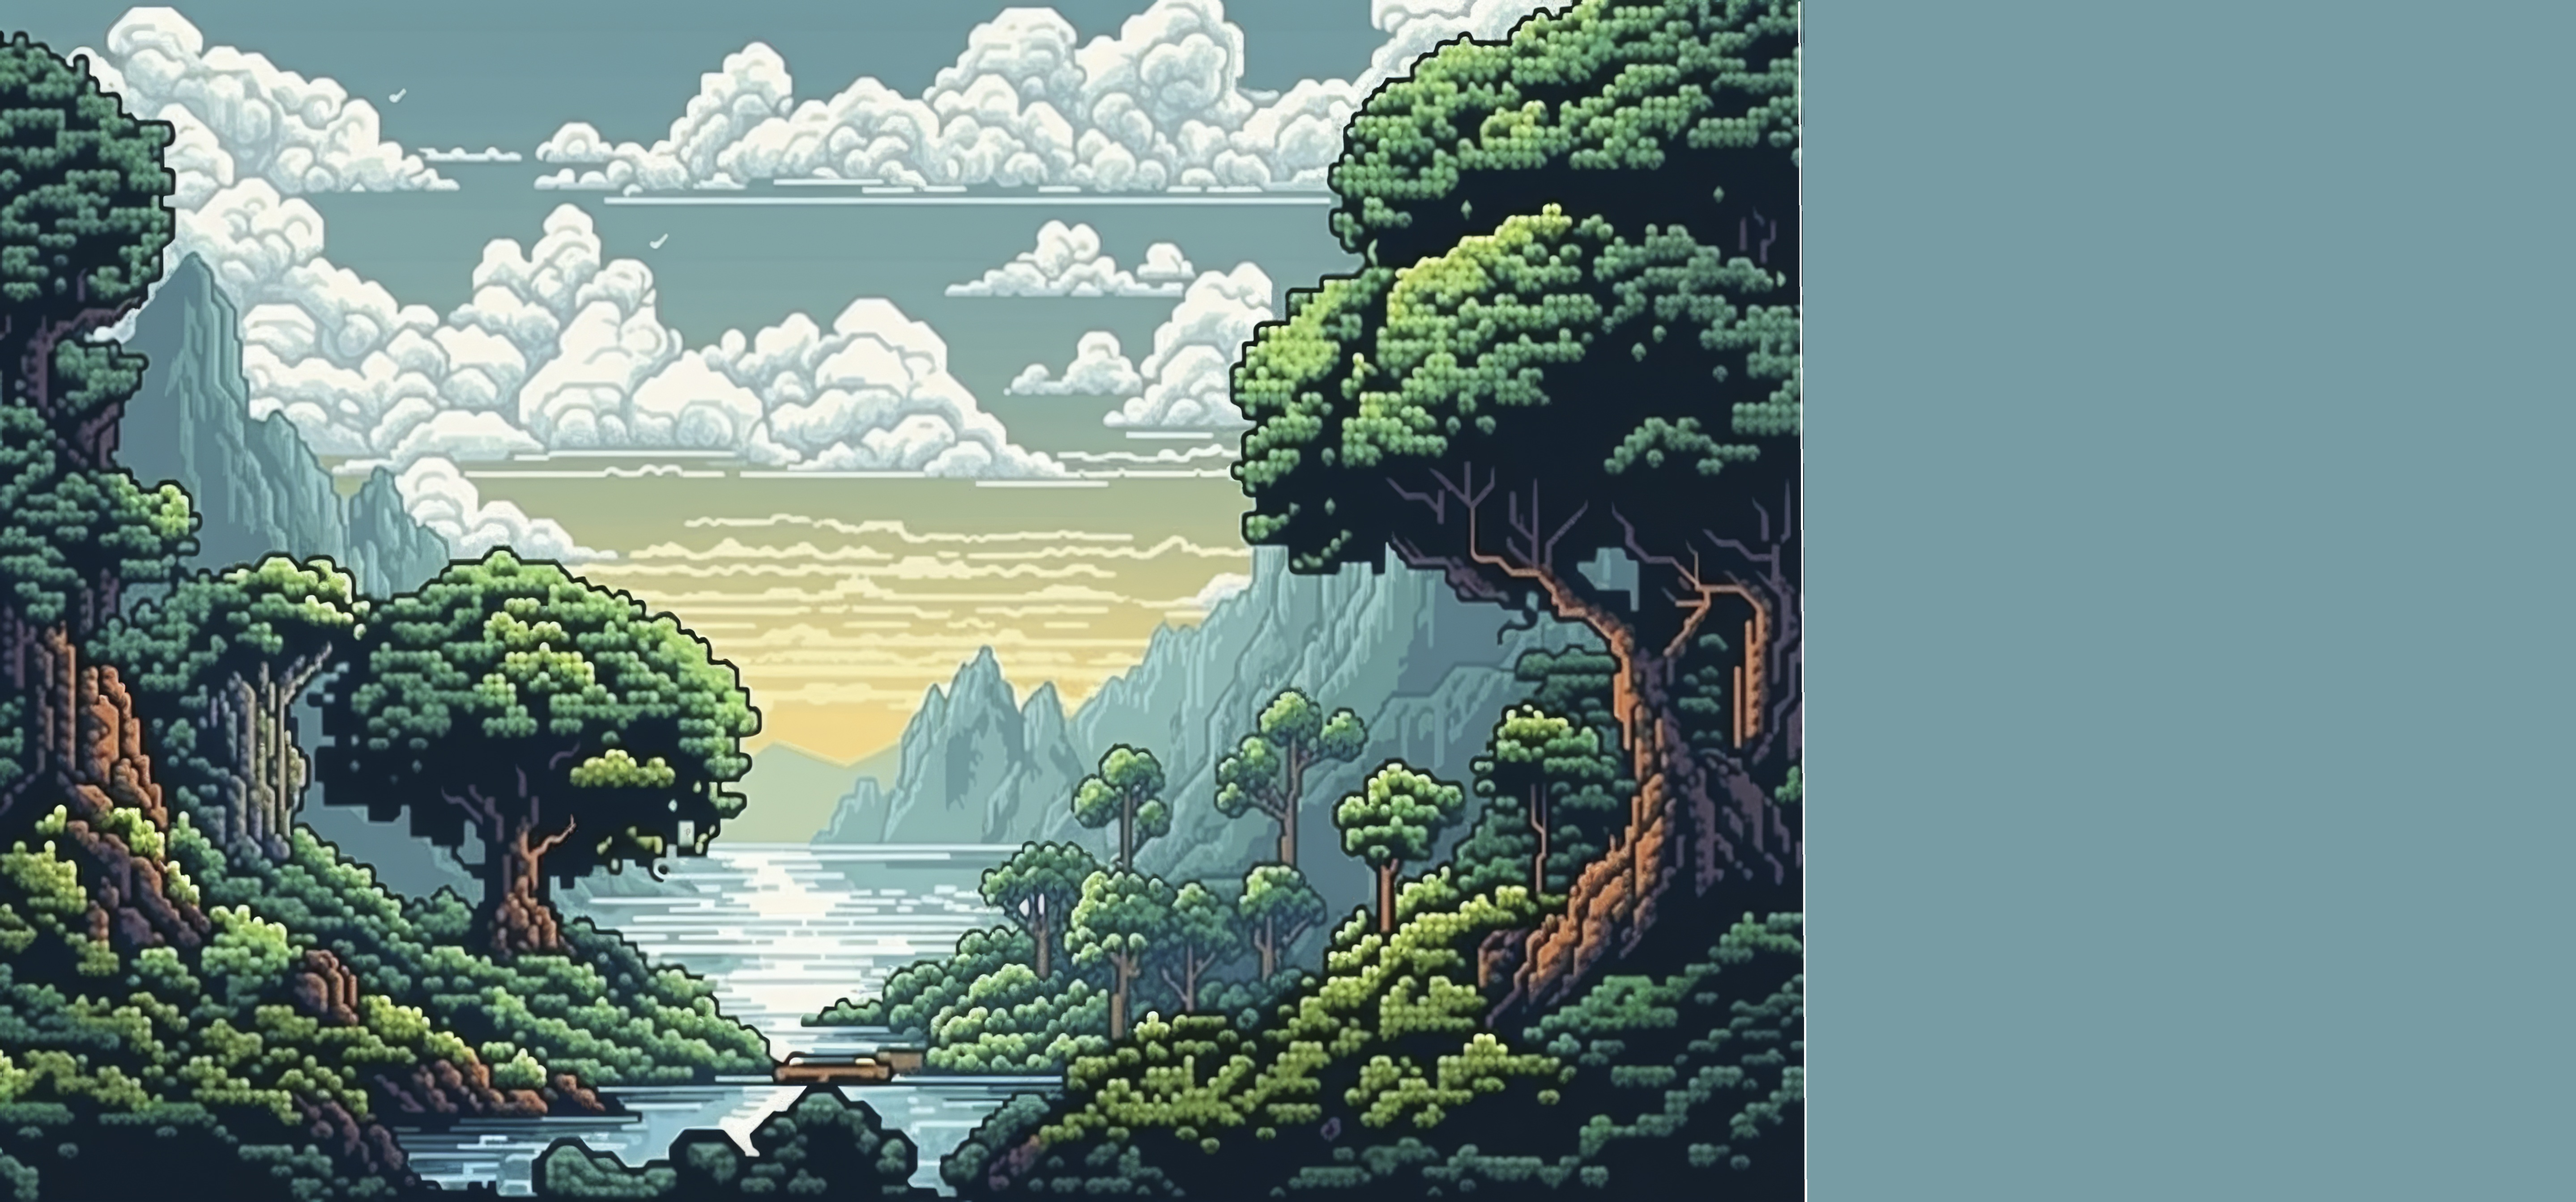
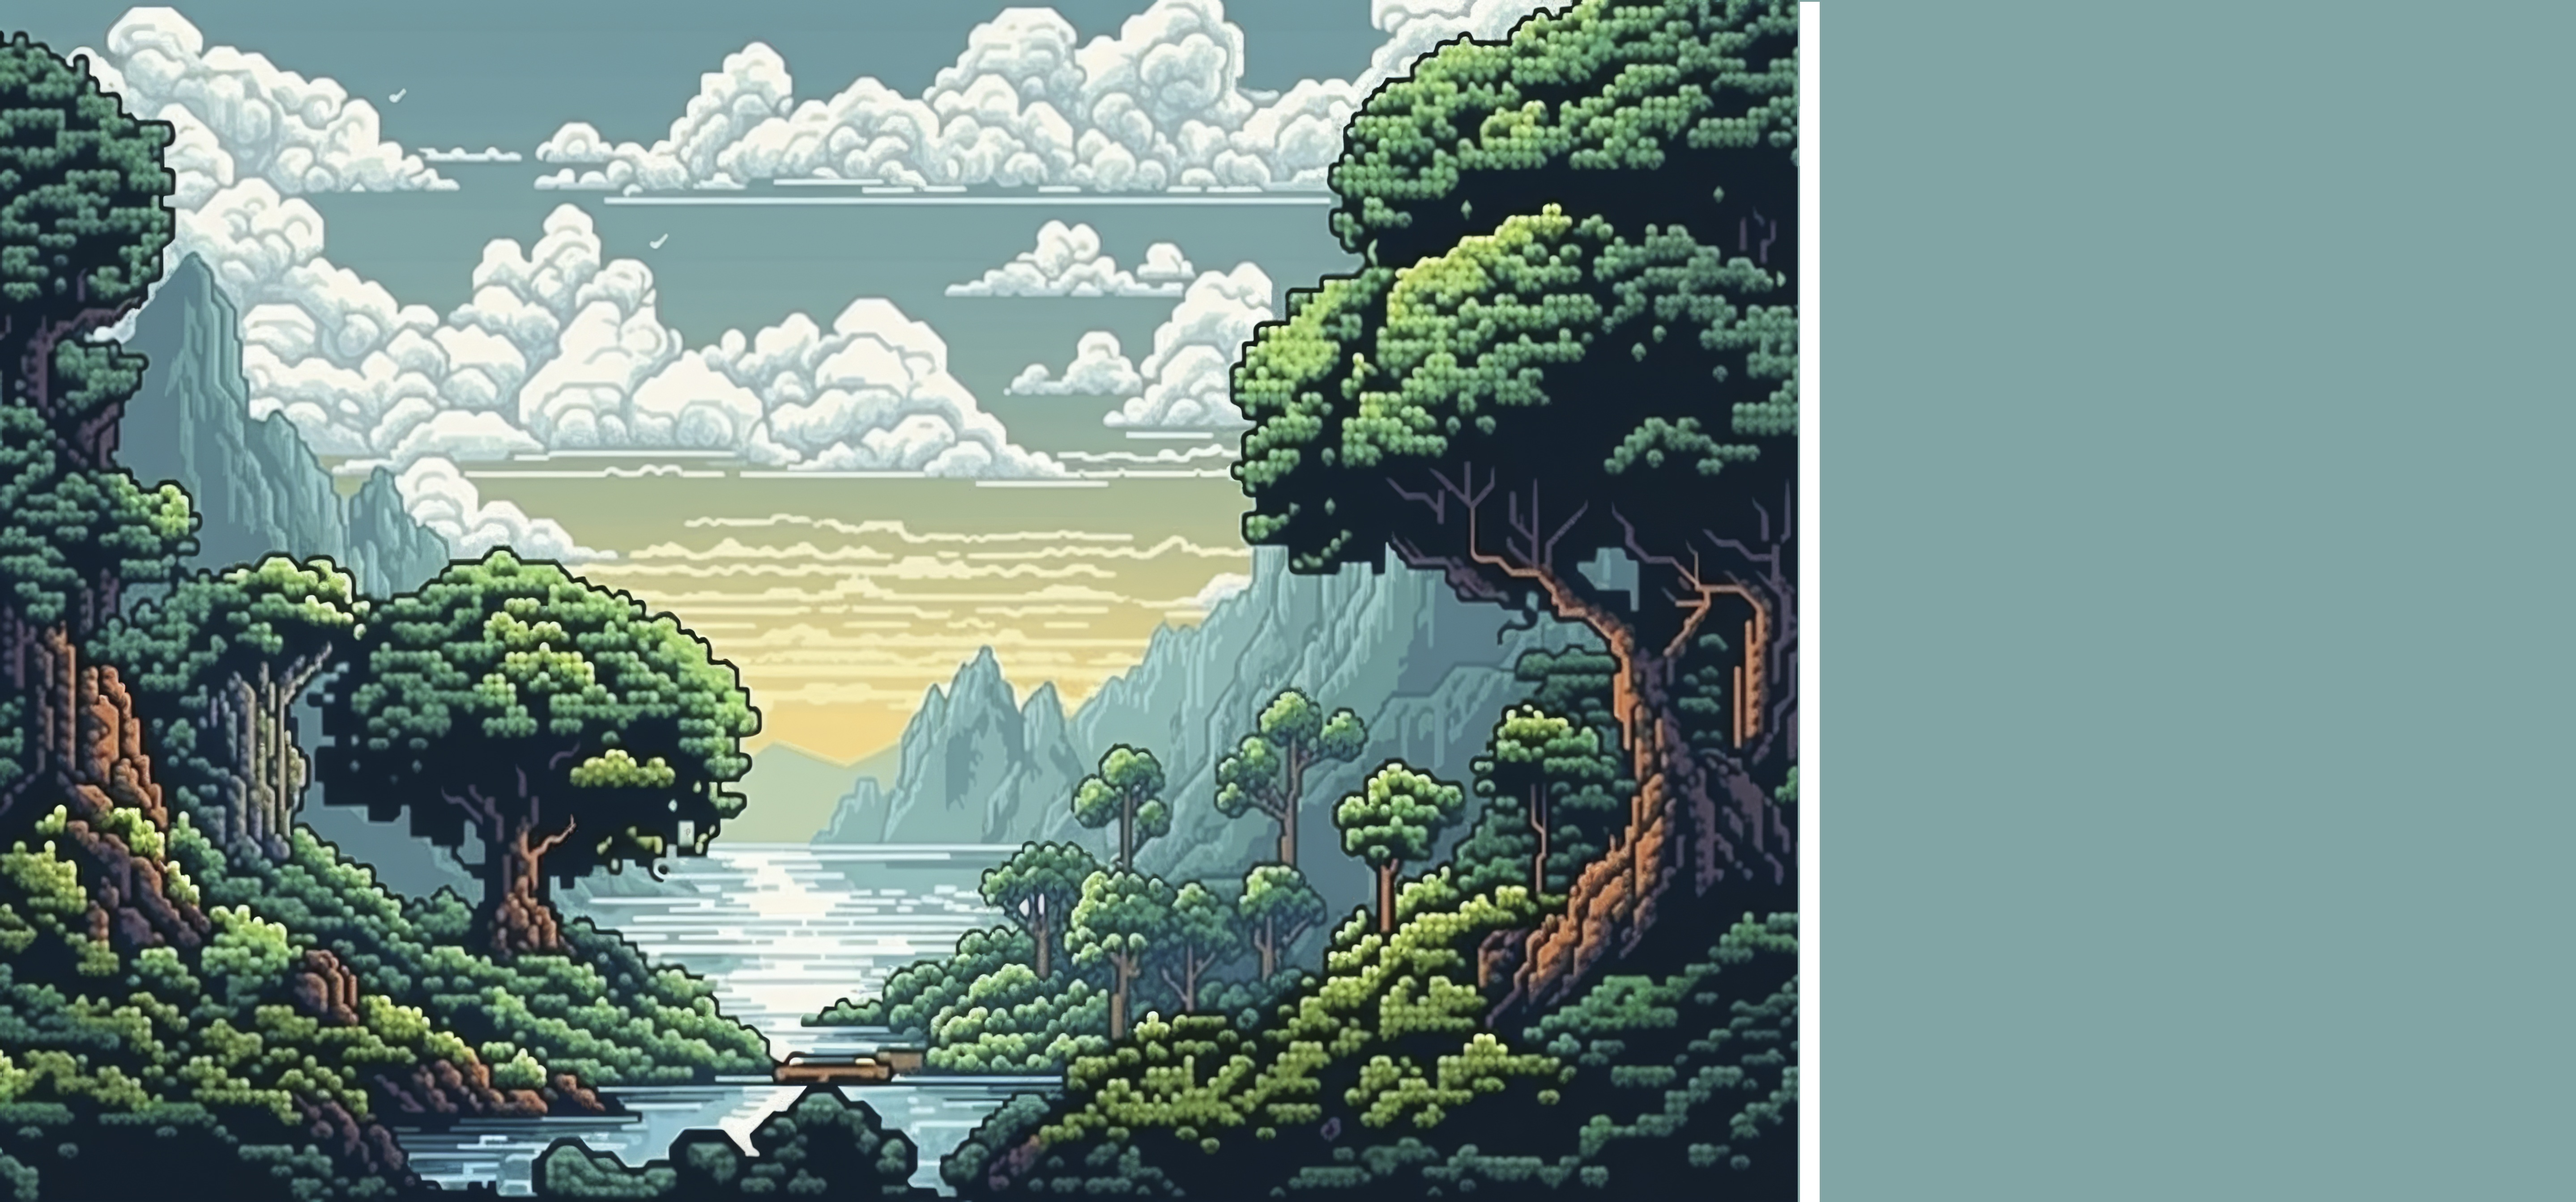
changed design and added clock

Changed region(s): [[0.6842, 0.0, 0.7153, 1.0]]

diff --git a/web-ui/src/App.vue b/web-ui/src/App.vue
@@ -1,5 +1,5 @@
 <script setup lang="ts">
-import { onMounted, ref } from "vue";
+import { computed, onBeforeUnmount, onMounted, ref, watch } from "vue";
 import type { BoardMatrix, GameState, MoveRequest, PieceCode } from "./api/types";
 import {
   apiBaseUrl,
@@ -27,6 +27,11 @@ const pgnExport = ref<string>("");
 const previousBoard = ref<BoardMatrix | null>(null);
 const animationPlan = ref<BoardAnimation | null>(null);
 const animationCounter = ref(0);
+const baseClockMs = 10 * 60 * 1000;
+const whiteClockMs = ref(baseClockMs);
+const blackClockMs = ref(baseClockMs);
+const lastTickMs = ref<number | null>(null);
+const clockInterval = ref<number | null>(null);
 
 type BoardAnimation = {
   id: number;
@@ -54,6 +59,30 @@ const loadGame = async () => {
       error instanceof Error
         ? `Service offline. ${error.message}`
         : "Service offline.";
+  }
+};
+
+const resetClocks = () => {
+  whiteClockMs.value = baseClockMs;
+  blackClockMs.value = baseClockMs;
+  lastTickMs.value = performance.now();
+};
+
+const clockRunning = computed(() => {
+  const status = game.value?.status;
+  return status === "active" || status === "check";
+});
+
+const tickClock = () => {
+  const now = performance.now();
+  const last = lastTickMs.value ?? now;
+  lastTickMs.value = now;
+  if (!clockRunning.value || !game.value) return;
+  const delta = Math.max(0, now - last);
+  if (game.value.activeColor === "white") {
+    whiteClockMs.value = Math.max(0, whiteClockMs.value - delta);
+  } else {
+    blackClockMs.value = Math.max(0, blackClockMs.value - delta);
   }
 };
 
@@ -163,7 +192,26 @@ const handleExport = async () => {
   }
 };
 
-onMounted(loadGame);
+onMounted(() => {
+  loadGame();
+  lastTickMs.value = performance.now();
+  clockInterval.value = window.setInterval(tickClock, 250);
+});
+
+onBeforeUnmount(() => {
+  if (clockInterval.value !== null) {
+    window.clearInterval(clockInterval.value);
+  }
+});
+
+watch(
+  () => game.value?.id,
+  (next, prev) => {
+    if (next && next !== prev) {
+      resetClocks();
+    }
+  }
+);
 
 const handleAnimationFinished = (id: number) => {
   if (animationPlan.value?.id === id) {
@@ -216,7 +264,7 @@ const squareToIndex = (square: string): { row: number; col: number } | null => {
       <span class="leaf leaf-5"></span>
       <span class="leaf leaf-6"></span>
     </div>
-    <StatusBanner :game="game" :connection="connection" :message="message" />
+    <!-- <StatusBanner :game="game" :connection="connection" :message="message" /> -->
     <main class="layout">
       <ChessBoard
         v-if="game"
@@ -234,6 +282,10 @@ const squareToIndex = (square: string): { row: number; col: number } | null => {
         <ControlPanel
           :game="game"
           :busy="busy"
+          :white-time-ms="whiteClockMs"
+          :black-time-ms="blackClockMs"
+          :active-color="game?.activeColor"
+          :clock-running="clockRunning"
           @new-game="handleNewGame"
           @undo="handleUndo"
           @redo="handleRedo"
@@ -290,6 +342,7 @@ const squareToIndex = (square: string): { row: number; col: number } | null => {
   width: 100%;
   max-width: 280px;
   justify-self: end;
+  margin-left: 32px;
 }
 
 .placeholder {

diff --git a/web-ui/src/components/ControlPanel.vue b/web-ui/src/components/ControlPanel.vue
@@ -1,9 +1,13 @@
 <script setup lang="ts">
-import type { GameState } from "../api/types";
+import type { GameState, PlayerColor } from "../api/types";
 
-defineProps<{
+const props = defineProps<{
   game?: GameState;
   busy: boolean;
+  whiteTimeMs?: number;
+  blackTimeMs?: number;
+  activeColor?: PlayerColor;
+  clockRunning?: boolean;
 }>();
 
 const emit = defineEmits<{
@@ -12,6 +16,13 @@ const emit = defineEmits<{
   (event: "redo"): void;
   (event: "export"): void;
 }>();
+
+const formatTime = (ms?: number) => {
+  const totalSeconds = Math.max(0, Math.floor((ms ?? 0) / 1000));
+  const minutes = Math.floor(totalSeconds / 60);
+  const seconds = totalSeconds % 60;
+  return `${minutes}:${seconds.toString().padStart(2, "0")}`;
+};
 </script>
 
 <template>
@@ -20,6 +31,22 @@ const emit = defineEmits<{
       <h2>Command Deck</h2>
       <p>Direct the battle from here.</p>
     </header>
+    <div class="clocks">
+      <div
+        class="clock"
+        :class="[props.activeColor === 'white' && props.clockRunning ? 'is-active' : '']"
+      >
+        <span class="label">White</span>
+        <strong class="clock-time">{{ formatTime(props.whiteTimeMs) }}</strong>
+      </div>
+      <div
+        class="clock"
+        :class="[props.activeColor === 'black' && props.clockRunning ? 'is-active' : '']"
+      >
+        <span class="label">Black</span>
+        <strong class="clock-time">{{ formatTime(props.blackTimeMs) }}</strong>
+      </div>
+    </div>
     <div class="status">
       <div>
         <span class="label">Status</span>
@@ -77,6 +104,31 @@ header p {
   grid-template-columns: repeat(3, minmax(0, 1fr));
   gap: 12px;
   margin-bottom: 16px;
+}
+
+.clocks {
+  display: grid;
+  grid-template-columns: repeat(2, minmax(0, 1fr));
+  gap: 12px;
+  margin-bottom: 16px;
+}
+
+.clock {
+  display: grid;
+  gap: 6px;
+  align-items: center;
+  padding: 10px 12px;
+  border-radius: 16px;
+  background: rgba(255, 255, 255, 0.04);
+}
+
+.clock.is-active {
+  box-shadow: 0 0 0 1px rgba(255, 206, 116, 0.55), 0 12px 22px rgba(0, 0, 0, 0.35);
+}
+
+.clock-time {
+  font-size: 1.2rem;
+  letter-spacing: 0.08rem;
 }
 
 .label {

diff --git a/web-ui/src/components/ChessBoard.vue b/web-ui/src/components/ChessBoard.vue
@@ -689,13 +689,13 @@ watch(
   position: relative;
   display: grid;
   grid-template-rows: repeat(8, var(--square-size, 72px));
-  gap: 0;
+  gap: 1px;
 }
 
 .board-row {
   display: grid;
   grid-template-columns: repeat(8, var(--square-size, 72px));
-  gap: 0;
+  gap: 1px;
 }
 
 .board-square {
@@ -712,11 +712,11 @@ watch(
 }
 
 .square-light {
-  background: #f0d9b5;
+  background: #f0d9b5e7;
 }
 
 .square-dark {
-  background: #b58863;
+  background: #b58863c9;
 }
 
 .piece {
